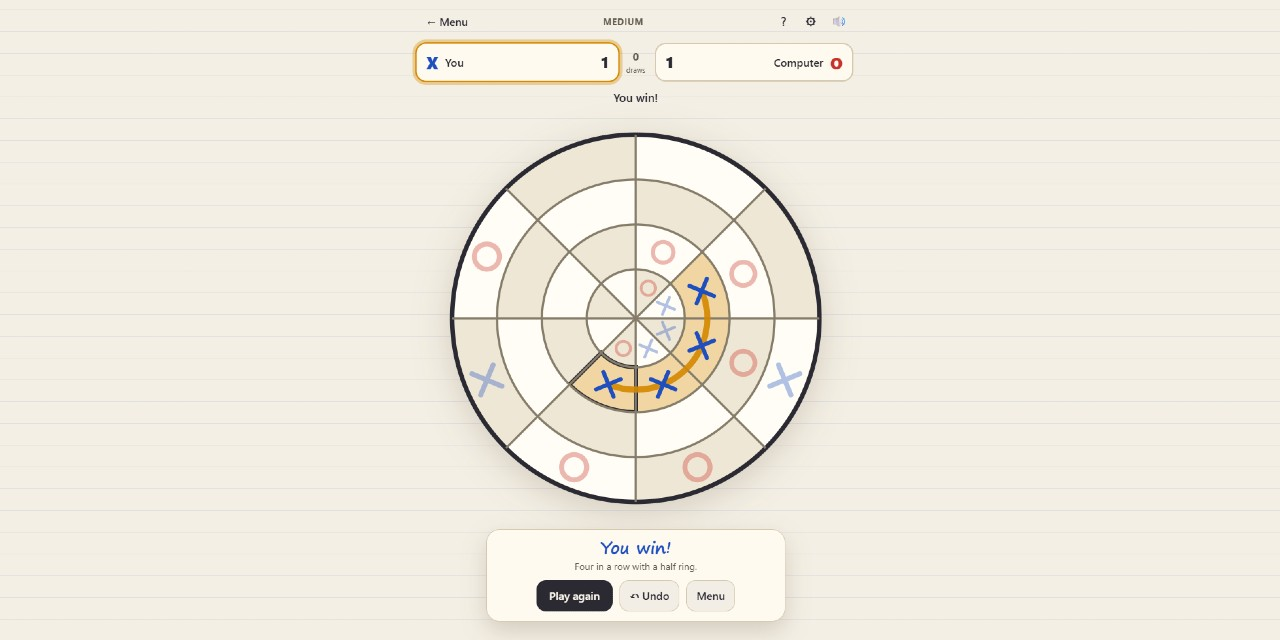
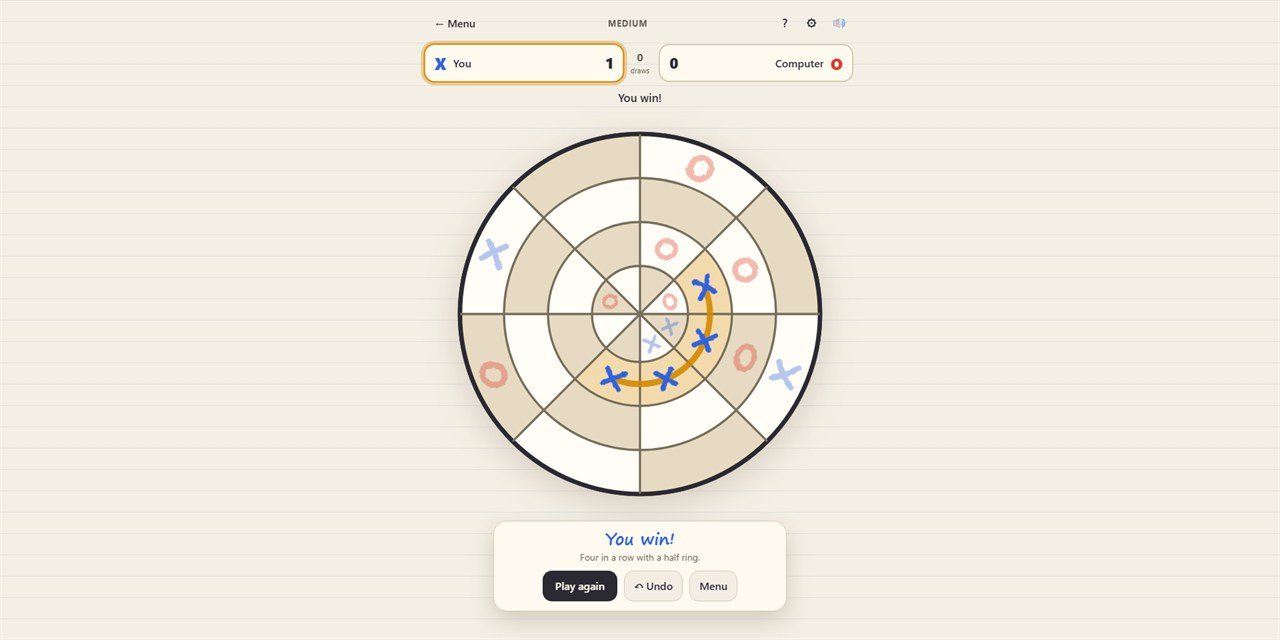
Refresh themes: Comic replaces Sunset, sketchy Chalk marks, smoother Neon glow
- Replace the Sunset theme with Comic (halftone background, ink outlines,
  hard offset shadows); a saved Sunset preference migrates to Comic
- Draw hand-drawn, bolder X and O marks in the Chalk theme, roughened by
  an SVG filter
- Neon: layered glow on marks, and the outer ring's glow now sits under
  the cells so it no longer spills over the board
- Increase the contrast between light and shaded cells in every theme
- Update the social preview image

Changed region(s): [[0.3438, 0.1875, 0.6562, 0.9688], [0.3125, 0.0312, 0.5312, 0.1562], [0.5938, 0.0625, 0.6562, 0.125]]

diff --git a/css/style.css b/css/style.css
@@ -4,7 +4,7 @@
    THEMING
    Every colour comes from a CSS custom property. A theme is a block of
    variables selected by two attributes on <html>:
-       data-theme = chalk | neon | sunset     (the palette family)
+       data-theme = chalk | neon | comic    (the palette family)
        data-mode  = light | dark              (resolved by JS; "system"
                                                follows prefers-color-scheme)
    The selectors also match any element carrying data-theme, which lets
@@ -18,20 +18,20 @@
 [data-theme="chalk"] {
   --bg: #f4efe4; --surface: #fffaf0; --surface-2: #fffaf0; --border: #d5c9b0;
   --text: #2b2a33; --muted: #645e51;
-  --x: #1f4fbf; --o: #c8322b;
+  --x: #2f62e0; --o: #e2392c;
   --accent: #2b2a33; --accent-text: #fffaf0; --accent2: #c8322b; --accent2-text: #ffffff;
-  --cell: #fffdf6; --cell-shade: #efe7d6; --grid: #857c6a; --grid-outer: #2b2a33;
+  --cell: #fffdf6; --cell-shade: #e6dbc2; --grid: #776e5c; --grid-outer: #2b2a33;
   --win: #d48800; --hint: #12804d;
-  --mark-glow: none; --shadow: rgba(60, 45, 20, .18);
+  --mark-glow: none; --mark-fx: url(#chalk-rough); --shadow: rgba(60, 45, 20, .18);
   --font-display: "Segoe Print", "Bradley Hand", "Chalkboard SE", "Comic Sans MS", cursive;
   --bg-image: repeating-linear-gradient(0deg, transparent 0 31px, rgba(31, 79, 191, .09) 31px 32px);
 }
 [data-mode="dark"] [data-theme="chalk"], [data-theme="chalk"][data-mode="dark"] {
   --bg: #1e2b27; --surface: #26362f; --surface-2: #26362f; --border: #44594f;
   --text: #f1efe6; --muted: #b0bcb3;
-  --x: #8fd3ff; --o: #ffb3a6;
-  --accent: #f1efe6; --accent-text: #1e2b27; --accent2: #ffb3a6; --accent2-text: #3a120c;
-  --cell: #22322c; --cell-shade: #2b3e36; --grid: #8c9d93; --grid-outer: #f1efe6;
+  --x: #72ccff; --o: #ff9884;
+  --accent: #f1efe6; --accent-text: #1e2b27; --accent2: #ff9884; --accent2-text: #3a120c;
+  --cell: #1b2823; --cell-shade: #33493f; --grid: #8c9d93; --grid-outer: #f1efe6;
   --win: #ffe27a; --hint: #9be89b;
   --shadow: rgba(0, 0, 0, .4);
   --bg-image: radial-gradient(900px 600px at 50% 0%, rgba(255, 255, 255, .06), transparent 70%);
@@ -43,10 +43,12 @@
   --text: #1a1440; --muted: #57528a;
   --x: #0a6cff; --o: #e0109f;
   --accent: #5b34e6; --accent-text: #ffffff; --accent2: #d10f94; --accent2-text: #ffffff;
-  --cell: #ffffff; --cell-shade: #efe9ff; --grid: #8479d0; --grid-outer: #5b34e6;
+  --cell: #ffffff; --cell-shade: #e1d7ff; --grid: #7265c8; --grid-outer: #5b34e6;
   --win: #ff8a00; --hint: #0a8a45;
-  /* on a light background the glow is a saturated halo in the mark's own colour */
-  --mark-glow: drop-shadow(0 0 1.6px currentColor) drop-shadow(0 0 4px color-mix(in srgb, currentColor 65%, transparent));
+  /* Glows are two stacked blurs - a tight core plus a soft falloff - so they fade out smoothly
+     instead of ending in a flat smear. Lengths are SVG user units (1 unit is about 3px). */
+  --mark-glow: drop-shadow(0 0 .35px currentColor) drop-shadow(0 0 1.1px color-mix(in srgb, currentColor 50%, transparent));
+  --ring-glow: drop-shadow(0 0 .8px currentColor) drop-shadow(0 0 2.6px color-mix(in srgb, currentColor 60%, transparent));
   --ui-glow: 0 0 0 1px color-mix(in srgb, var(--accent) 40%, transparent), 0 0 18px color-mix(in srgb, var(--accent) 55%, transparent);
   --ui-glow2: 0 0 0 1px color-mix(in srgb, var(--accent2) 40%, transparent), 0 0 18px color-mix(in srgb, var(--accent2) 55%, transparent);
   --shadow: rgba(91, 52, 230, .28);
@@ -59,9 +61,10 @@
   --text: #f3f1ff; --muted: #aaa6d6;
   --x: #22e3ff; --o: #ff5cdc;
   --accent: #6a48f0; --accent-text: #ffffff; --accent2: #c81f9c; --accent2-text: #ffffff;
-  --cell: #110e28; --cell-shade: #1a1640; --grid: #6a60d8; --grid-outer: #22e3ff;
+  --cell: #0c0a1e; --cell-shade: #221c52; --grid: #7a70e6; --grid-outer: #22e3ff;
   --win: #ffe94a; --hint: #5dff9b;
-  --mark-glow: drop-shadow(0 0 2.5px currentColor);
+  --mark-glow: drop-shadow(0 0 .4px currentColor) drop-shadow(0 0 1.3px color-mix(in srgb, currentColor 65%, transparent));
+  --ring-glow: drop-shadow(0 0 .9px currentColor) drop-shadow(0 0 3px color-mix(in srgb, currentColor 70%, transparent));
   --ui-glow: 0 0 18px color-mix(in srgb, var(--accent) 70%, transparent);
   --ui-glow2: 0 0 18px color-mix(in srgb, var(--accent2) 70%, transparent);
   --shadow: rgba(0, 0, 0, .6);
@@ -69,28 +72,43 @@
               radial-gradient(700px 500px at 90% 10%, rgba(34, 227, 255, .14), transparent 70%);
 }
 
-/* ---------- Sunset: peach dawn by day, purple dusk by night ---------- */
-[data-theme="sunset"] {
-  --bg: #ffe6d8; --surface: #fff7f2; --surface-2: #fff7f2; --border: #edbfae;
-  --text: #3b1730; --muted: #744a60;
-  --x: #4a2a8f; --o: #cf3a00;
-  --accent: #7a2e4d; --accent-text: #ffffff; --accent2: #cf3a00; --accent2-text: #ffffff;
-  --cell: #fff4ec; --cell-shade: #ffdccb; --grid: #b06a52; --grid-outer: #7a2e4d;
-  --win: #b98300; --hint: #00857a;
-  --mark-glow: none; --shadow: rgba(122, 46, 77, .22);
-  --font-display: Georgia, "Iowan Old Style", "Times New Roman", serif;
-  --bg-image: linear-gradient(160deg, #ffe3d1 0%, #ffd3e2 60%, #e9d3ff 100%);
+/* ---------- Comic: halftone dots and ink outlines by day, a midnight issue by night ---------- */
+[data-theme="comic"] {
+  --bg: #ffe98a; --surface: #ffffff; --surface-2: #ffffff; --border: #111111;
+  --text: #111111; --muted: #4a4a4a;
+  --x: #0060d0; --o: #e6001f;
+  --accent: #e6001f; --accent-text: #ffffff; --accent2: #0060d0; --accent2-text: #ffffff;
+  --cell: #ffffff; --cell-shade: #ffd93b; --grid: #111111; --grid-outer: #111111;
+  --win: #00a04a; --hint: #7a00cc;
+  /* not a glow here: two hard offset shadows give every mark an ink outline */
+  --mark-glow: drop-shadow(.45px .45px 0 #111) drop-shadow(-.3px -.3px 0 #111);
+  --shadow: rgba(0, 0, 0, .3);
+  --font-display: Impact, "Arial Black", "Haettenschweiler", sans-serif;
+  --bg-image: radial-gradient(rgba(230, 0, 31, .28) 1.6px, transparent 2px);
 }
-[data-mode="dark"] [data-theme="sunset"], [data-theme="sunset"][data-mode="dark"] {
-  --bg: #22122f; --surface: #2c1839; --surface-2: #2c1839; --border: #55345f;
-  --text: #fdeef2; --muted: #cdb3ca;
-  --x: #ffd166; --o: #ff7a90;
-  --accent: #ffb36b; --accent-text: #2a1300; --accent2: #ff7a90; --accent2-text: #3a0714;
-  --cell: #271537; --cell-shade: #341d47; --grid: #946aa6; --grid-outer: #ffb36b;
-  --win: #7dffd4; --hint: #9fd0ff;
-  --shadow: rgba(0, 0, 0, .5);
-  --bg-image: linear-gradient(160deg, #1b1030 0%, #3a1430 70%, #5a2333 100%);
+[data-mode="dark"] [data-theme="comic"], [data-theme="comic"][data-mode="dark"] {
+  --bg: #15122e; --surface: #1f1b42; --surface-2: #1f1b42; --border: #f5f5f5;
+  --text: #ffffff; --muted: #bdb8e6;
+  --x: #ffe14d; --o: #ff4d6d;
+  --accent: #ffe14d; --accent-text: #15122e; --accent2: #ff4d6d; --accent2-text: #2b0010;
+  --cell: #1a1638; --cell-shade: #332c70; --grid: #d9d6f5; --grid-outer: #ffffff;
+  --win: #5dff9b; --hint: #6fe3ff;
+  --mark-glow: drop-shadow(.45px .45px 0 #000) drop-shadow(-.3px -.3px 0 #000);
+  --shadow: rgba(0, 0, 0, .6);
+  --bg-image: radial-gradient(rgba(111, 227, 255, .2) 1.6px, transparent 2px);
 }
+/* Comic extras: halftone dot pitch, thick ink borders with hard offset shadows, tilted poster title */
+[data-theme="comic"] body { background-size: 10px 10px; }
+[data-theme="comic"] .title { font-weight: 400; letter-spacing: .02em; transform: rotate(-2deg); }
+[data-theme="comic"] .menu-card h2, [data-theme="comic"] .modal-card h2, [data-theme="comic"] .result-text, [data-theme="comic"] .tc-name { font-weight: 400; letter-spacing: .02em; }
+[data-theme="comic"] .menu-card, [data-theme="comic"] .modal-card, [data-theme="comic"] .result { border-width: 3px; box-shadow: 6px 6px 0 var(--border); }
+[data-theme="comic"] .btn:not(.ghost), [data-theme="comic"] .player { border: 2.5px solid var(--border); border-radius: 8px; box-shadow: 3px 3px 0 var(--border); }
+[data-theme="comic"] .btn:not(.ghost):not(.primary) { background: var(--surface); }   /* solid, so the dots don't show through */
+[data-theme="comic"] .btn:not(.ghost):hover:not(:disabled) { box-shadow: 5px 5px 0 var(--border); }
+[data-theme="comic"] .btn:not(.ghost):active:not(:disabled) { box-shadow: 1px 1px 0 var(--border); }
+[data-theme="comic"] .player.px.active { border-color: var(--x); }
+[data-theme="comic"] .player.po.active { border-color: var(--o); }
+[data-theme="comic"] .player.winner { border-color: var(--win); }
 
 /* ---------- base ---------- */
 :root { color-scheme: light; }
@@ -221,13 +239,21 @@ svg, svg * { outline: none; -webkit-user-select: none; user-select: none; }
 @keyframes hint-ring { to { opacity: .35; } }
 
 .grid * { fill: none; stroke: var(--grid); stroke-width: 1.1; pointer-events: none; }
-.grid circle:last-of-type { stroke-width: 2.2; stroke: var(--grid-outer); color: var(--grid-outer); filter: var(--mark-glow); }
+.grid circle:last-of-type { stroke-width: 2.2; stroke: var(--grid-outer); }
+/* the outer ring's glow sits under the cells, so it radiates outwards only and never washes over the board */
+.halo { fill: none; stroke: var(--grid-outer); color: var(--grid-outer); stroke-width: 2.2; pointer-events: none; filter: var(--ring-glow, none); }
 
-.mark { pointer-events: none; fill: none; stroke-width: var(--sw, 2); stroke-linecap: round; transition: opacity .3s; }
-.mark.x { stroke: var(--x); color: var(--x); filter: var(--mark-glow); }
-.mark.o { stroke: var(--o); color: var(--o); filter: var(--mark-glow); }
-.mark.pop > * { stroke-dasharray: 1; stroke-dashoffset: 1; animation: draw .28s ease-out forwards; animation-delay: inherit; }
-.mark.pop > *:nth-child(2) { animation-name: draw2; }
+.mark { pointer-events: none; fill: none; stroke-width: var(--sw, 2); stroke-linecap: round; stroke-linejoin: round; transition: opacity .3s; }
+.mark.x { stroke: var(--x); color: var(--x); filter: var(--mark-fx, var(--mark-glow)); }
+.mark.o { stroke: var(--o); color: var(--o); filter: var(--mark-fx, var(--mark-glow)); }
+/* every mark carries a geometric (.clean) and a hand-drawn (.sk) version; the theme picks one */
+.mark .sk { display: none; }
+[data-theme="chalk"] .mark .sk { display: inline; }
+[data-theme="chalk"] .mark .clean { display: none; }
+[data-theme="chalk"] .mark { stroke-width: calc(var(--sw, 2) * 1.2); }   /* a fat stick of chalk */
+.mark > g { animation-delay: inherit; }
+.mark.pop path, .mark.pop circle { stroke-dasharray: 1; stroke-dashoffset: 1; animation: draw .28s ease-out forwards; animation-delay: inherit; }
+.mark.pop g > :nth-child(2) { animation-name: draw2; }
 @keyframes draw { to { stroke-dashoffset: 0; } }
 @keyframes draw2 { 0%, 45% { stroke-dashoffset: 1; } 100% { stroke-dashoffset: 0; } }
 .mark.ghost { opacity: .4; filter: none; }

diff --git a/js/game.js b/js/game.js
@@ -85,17 +85,60 @@
       transform: 'translate(' + ctr + ') rotate(' + (-cellAngle(c)) + ')'
     }, parent);
     g.style.setProperty('--sw', (h * 0.44).toFixed(2));          // stroke width scales with the mark
+    // Two versions of every mark: a geometric one and a hand-drawn one. CSS shows whichever the
+    // theme wants (see `.mark .sk`), so switching theme never needs a redraw.
+    var clean = el('g', { 'class': 'clean' }, g), sk = el('g', { 'class': 'sk' }, g);
     if (player === 0) {
-      el('path', { d: 'M' + (-h) + ' ' + (-h) + 'L' + h + ' ' + h, pathLength: 1 }, g);
-      el('path', { d: 'M' + h + ' ' + (-h) + 'L' + (-h) + ' ' + h, pathLength: 1 }, g);
+      el('path', { d: 'M' + (-h) + ' ' + (-h) + 'L' + h + ' ' + h, pathLength: 1 }, clean);
+      el('path', { d: 'M' + h + ' ' + (-h) + 'L' + (-h) + ' ' + h, pathLength: 1 }, clean);
     } else {
-      el('circle', { r: (h * 1.1).toFixed(2), pathLength: 1 }, g);
+      el('circle', { r: (h * 1.1).toFixed(2), pathLength: 1 }, clean);
     }
+    sketchMark(c, player, h * 0.88, sk);        // hand-drawn marks are drawn a touch smaller than the geometric ones
     return g;
+  }
+  /**
+   * The hand-drawn version of a mark: bowed, overshooting strokes for an X and a wobbly loop
+   * that does not quite close for an O. Seeded by the cell so a mark looks the same on every redraw.
+   */
+  function sketchMark(c, player, h, parent) {
+    var seed = (c * 2 + player + 1) * 0x9E3779B1 >>> 0;
+    function rnd() {                                            // mulberry32
+      seed = seed + 0x6D2B79F5 >>> 0;
+      var t = Math.imul(seed ^ seed >>> 15, 1 | seed);
+      t = t + Math.imul(t ^ t >>> 7, 61 | t) ^ t;
+      return ((t ^ t >>> 14) >>> 0) / 4294967296;
+    }
+    function jit(a) { return (rnd() * 2 - 1) * a; }
+    function f(n) { return n.toFixed(2); }
+    if (player === 0) {
+      [[-1, -1, 1, 1], [1, -1, -1, 1]].forEach(function (s) {
+        var x0 = s[0] * h * (1 + jit(.16)) + jit(h * .1), y0 = s[1] * h * (1 + jit(.16)) + jit(h * .1);
+        var x1 = s[2] * h * (1 + jit(.16)) + jit(h * .1), y1 = s[3] * h * (1 + jit(.16)) + jit(h * .1);
+        var bow = jit(h * .38), nx = -(y1 - y0), ny = x1 - x0, len = Math.sqrt(nx * nx + ny * ny) || 1;
+        var cx = (x0 + x1) / 2 + nx / len * bow + jit(h * .15), cy = (y0 + y1) / 2 + ny / len * bow + jit(h * .15);
+        el('path', { d: 'M' + f(x0) + ' ' + f(y0) + 'Q' + f(cx) + ' ' + f(cy) + ' ' + f(x1) + ' ' + f(y1), pathLength: 1 }, parent);
+      });
+    } else {
+      var r = h * 1.1, a0 = rnd() * 6.283, sweep = 6.283 + .45 + rnd() * .5, n = 22, pts = [];
+      var ph = rnd() * 6.283, squash = 1 + jit(.1), drift = .1 + rnd() * .1;
+      for (var i = 0; i <= n; i++) {
+        var u = i / n, a = a0 + sweep * u;
+        var rr = r * (1 - drift / 2 + drift * u + .06 * Math.sin(2 * a + ph));
+        pts.push([rr * Math.cos(a) * squash, rr * Math.sin(a) / squash]);
+      }
+      var d = 'M' + f(pts[0][0]) + ' ' + f(pts[0][1]);
+      for (i = 1; i < n; i++) {                                  // smooth curve through the midpoints
+        d += 'Q' + f(pts[i][0]) + ' ' + f(pts[i][1]) + ' ' + f((pts[i][0] + pts[i + 1][0]) / 2) + ' ' + f((pts[i][1] + pts[i + 1][1]) / 2);
+      }
+      el('path', { d: d, pathLength: 1 }, parent);
+    }
   }
   /** Draw the empty board (cells + grid lines) into an <svg>. Returns the 32 cell <path> elements. */
   function drawBoard(svg, interactive) {
     svg.textContent = '';
+    // glow of the outer ring, drawn UNDER the cells so it only shows outside the board
+    el('circle', { r: R[4], 'class': 'halo' }, svg);
     var gCells = el('g', { 'class': 'cells' }, svg), cells = [];
     for (var c = 0; c < E.N; c++) {
       // checkerboard shading helps the eye follow rings and sectors
@@ -116,7 +159,7 @@
     hard: 'Plans a couple of moves ahead and sets up double threats, but slips now and then. A real step up from Medium, and beatable from either side.',
     master: 'Perfect play. Unbeatable when it moves first; if you move first a win exists, but one slip and it is gone.'
   };
-  var THEMES = ['chalk', 'neon', 'sunset'];
+  var THEMES = ['chalk', 'neon', 'comic'];
 
   /** localStorage wrapper that never throws (private browsing, blocked storage, ...). */
   var store = {
@@ -124,6 +167,7 @@
     set: function (k, v) { try { localStorage.setItem('cttt.' + k, v); } catch (e) {} }
   };
 
+  if (store.get('theme', '') === 'sunset') store.set('theme', 'comic');   // Sunset was replaced by Comic
   var prefs = {
     theme: THEMES.indexOf(store.get('theme', '')) >= 0 ? store.get('theme', '') : 'chalk',
     mode: store.get('mode', 'system')      // 'system' | 'light' | 'dark'

diff --git a/index.html b/index.html
@@ -54,7 +54,8 @@
     (function () {
       try {
         var d = document.documentElement, t = localStorage.getItem('cttt.theme'), m = localStorage.getItem('cttt.mode');
-        if (t !== 'chalk' && t !== 'neon' && t !== 'sunset') t = 'chalk';
+        if (t === 'sunset') t = 'comic';                 // Sunset was replaced by Comic
+        if (t !== 'chalk' && t !== 'neon' && t !== 'comic') t = 'chalk';
         if (m !== 'light' && m !== 'dark') m = matchMedia('(prefers-color-scheme: dark)').matches ? 'dark' : 'light';
         d.setAttribute('data-theme', t); d.setAttribute('data-mode', m);
       } catch (e) {}
@@ -64,6 +65,17 @@
 </head>
 <body>
   <canvas id="confetti" aria-hidden="true"></canvas>
+
+  <!-- SVG filter for the Chalk theme's marks: wobbles the stroke edges and knocks out a little grain. -->
+  <svg width="0" height="0" style="position:absolute" aria-hidden="true" focusable="false">
+    <filter id="chalk-rough" filterUnits="userSpaceOnUse" x="-12" y="-12" width="24" height="24" color-interpolation-filters="sRGB">
+      <feTurbulence type="fractalNoise" baseFrequency="0.55" numOctaves="2" seed="4" result="wobble"/>
+      <feDisplacementMap in="SourceGraphic" in2="wobble" scale="1.1" xChannelSelector="R" yChannelSelector="G" result="rough"/>
+      <feTurbulence type="fractalNoise" baseFrequency="2.2" numOctaves="1" seed="9" result="grain"/>
+      <feColorMatrix in="grain" type="matrix" values="0 0 0 0 0  0 0 0 0 0  0 0 0 0 0  -3.2 0 0 0 3.1" result="holes"/>
+      <feComposite in="rough" in2="holes" operator="in"/>
+    </filter>
+  </svg>
 
   <noscript>
     <div class="noscript">
@@ -218,9 +230,9 @@
           <span class="tc-prev"><b class="cx">&#10005;</b><b class="co">&#9711;</b></span>
           <span class="tc-name">Neon</span><small>Glowing pop &middot; arcade night</small>
         </button>
-        <button class="theme-card" data-theme="sunset" role="radio">
+        <button class="theme-card" data-theme="comic" role="radio">
           <span class="tc-prev"><b class="cx">&#10005;</b><b class="co">&#9711;</b></span>
-          <span class="tc-name">Sunset</span><small>Peach dawn &middot; purple dusk</small>
+          <span class="tc-name">Comic</span><small>Halftone pop &middot; midnight issue</small>
         </button>
       </div>
       <h3>Appearance</h3>
